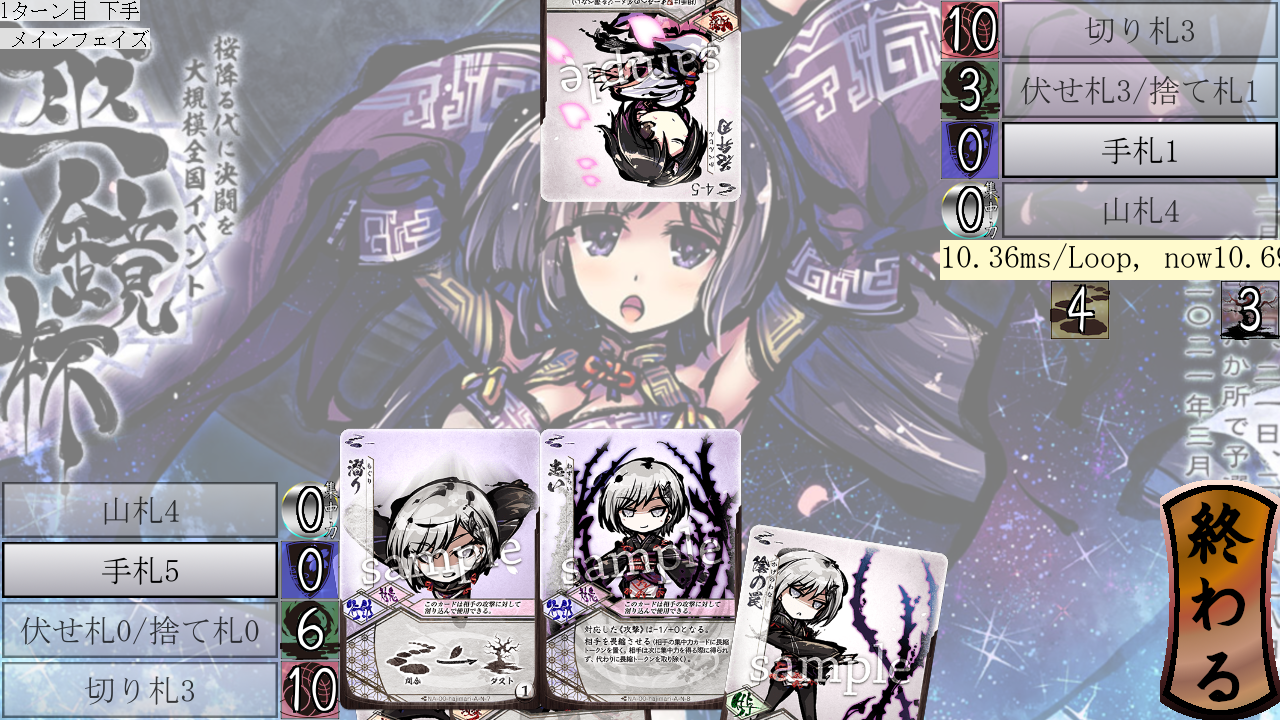
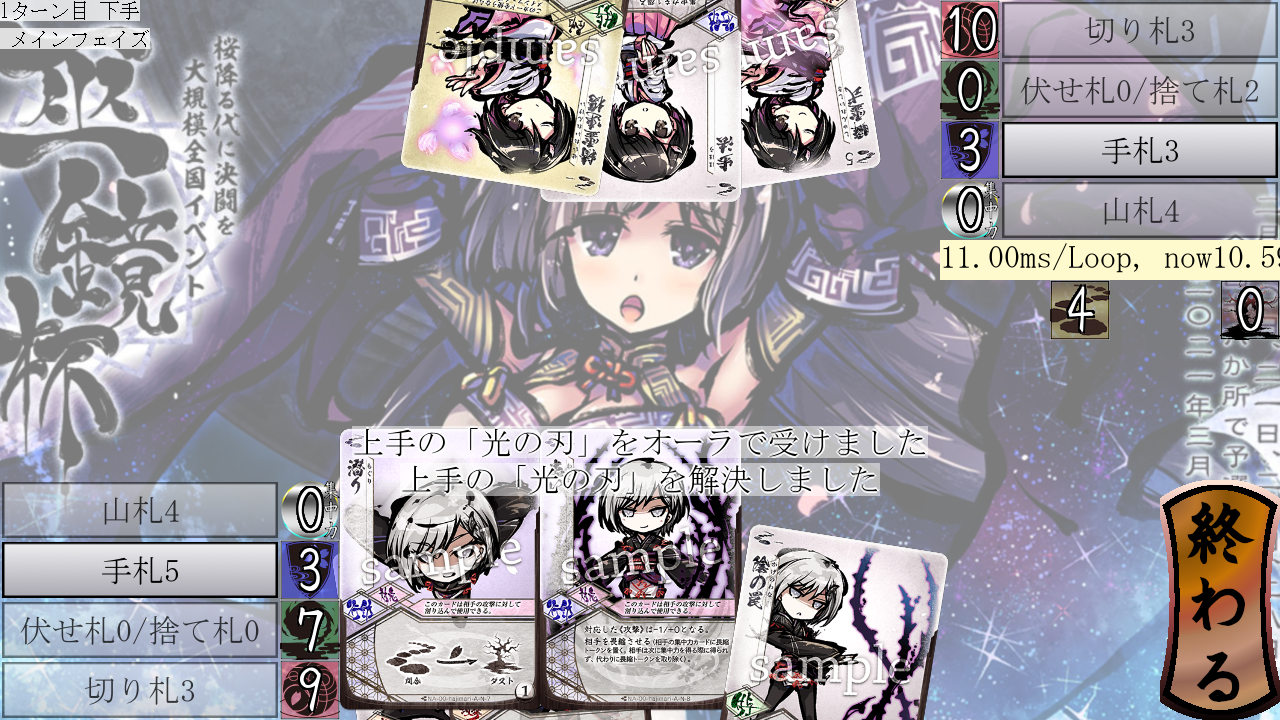
J437:uke_taba._uke_cardsのif節が不適切な行動をしていたので矯正

diff --git a/mod/ol/play_kougeki/uke_taba.py b/mod/ol/play_kougeki/uke_taba.py
@@ -22,10 +22,16 @@ def uke_taba(kougeki: Card, discard_source: Callable[[], None], delivery: Delive
 def _uke_cards(card: Card, delivery: Delivery, hoyuusya: int) -> list[Card]:
     aura_damage = card.aura_damage(delivery=delivery, hoyuusya=hoyuusya)
     life_damage = card.life_damage(delivery=delivery, hoyuusya=hoyuusya)
-    return [_0DAMAGE] if life_damage is None else [_ld_card(dmg=enforce(life_damage, int))] \
-    if aura_damage is None else [_ad_card(dmg=enforce(aura_damage, int))] \
-    if _ad_card(dmg=enforce(aura_damage, int)).can_damage(delivery=delivery, hoyuusya=hoyuusya) else \
-    [_ld_card(dmg=enforce(life_damage, int))]
+    if aura_damage is None:
+        return [_0DAMAGE] if life_damage is None else [_ld_card(dmg=life_damage)]
+    else:
+        ad_card = _ad_card(dmg=aura_damage)
+        if life_damage is None:
+            return [ad_card]
+        else:
+            ld_card = _ld_card(dmg=life_damage)
+            is_receivable = ad_card.can_damage(delivery=delivery, hoyuusya=hoyuusya)
+            return [ad_card, ld_card] if is_receivable else [ld_card]
 
 def _ad_card(dmg: int) -> Damage:
     return Damage(img=IMG_AURA_DAMAGE, name="オーラで受けました", dmg=dmg, from_code=UC_AURA, to_code=UC_DUST)
